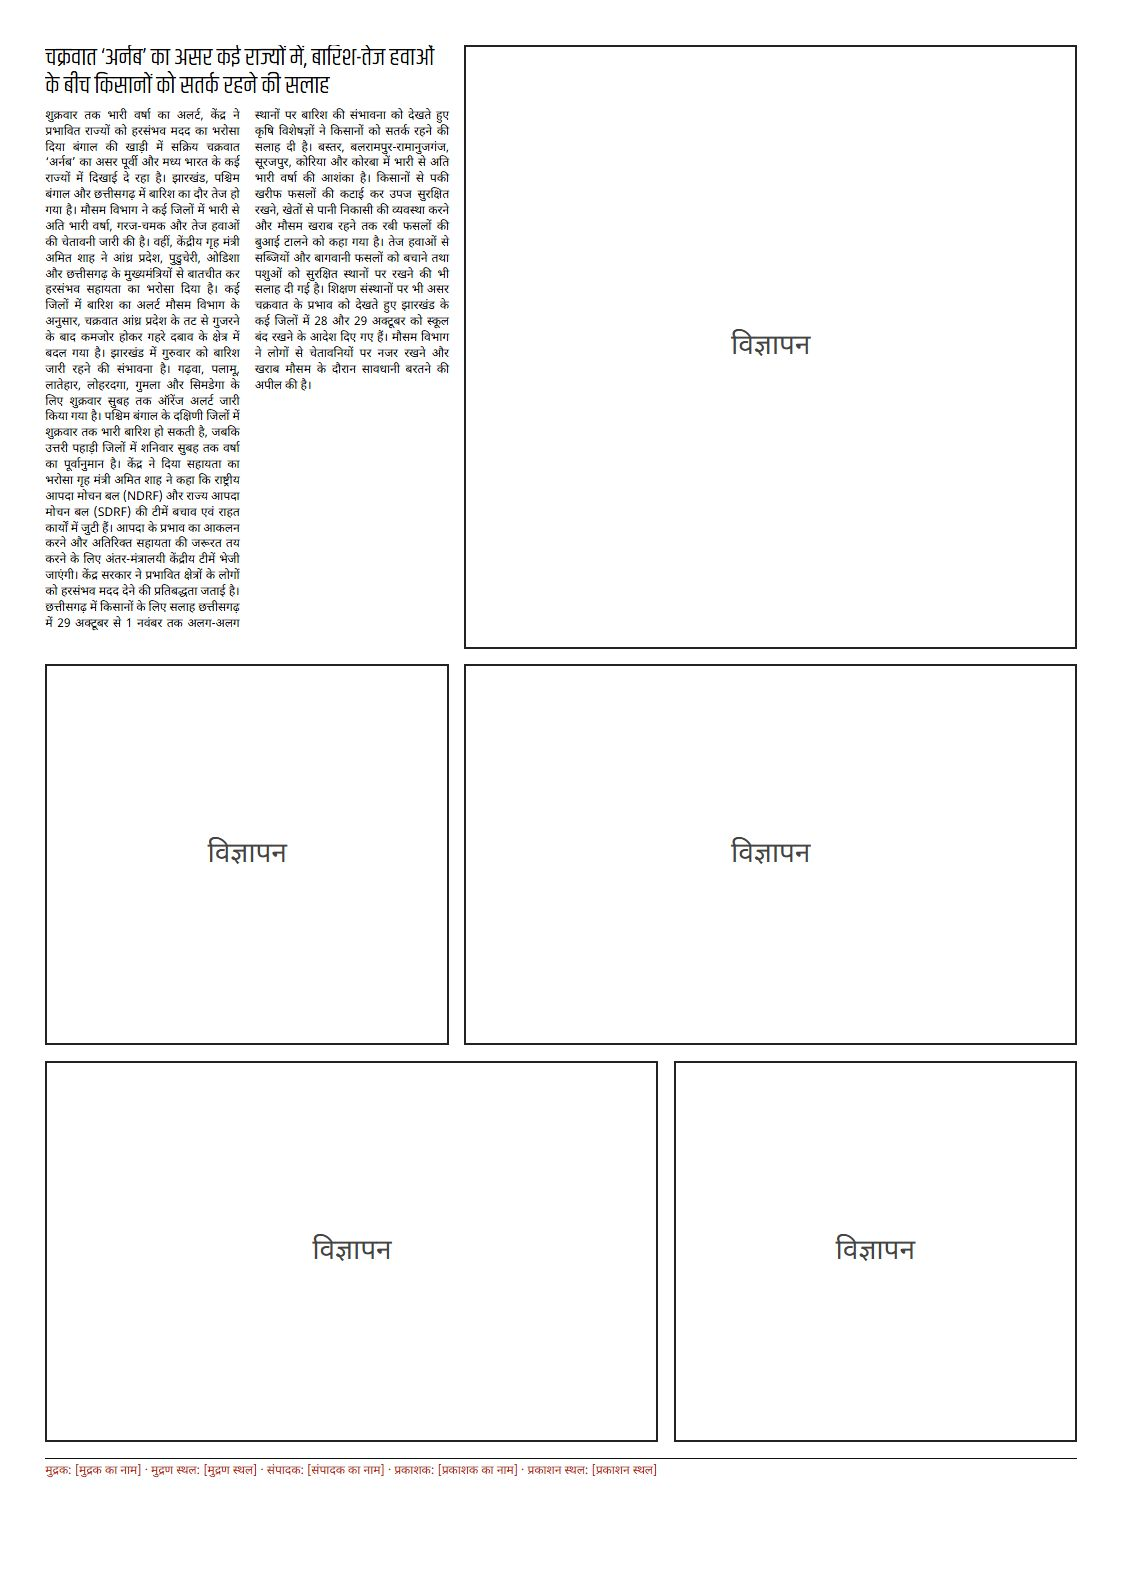
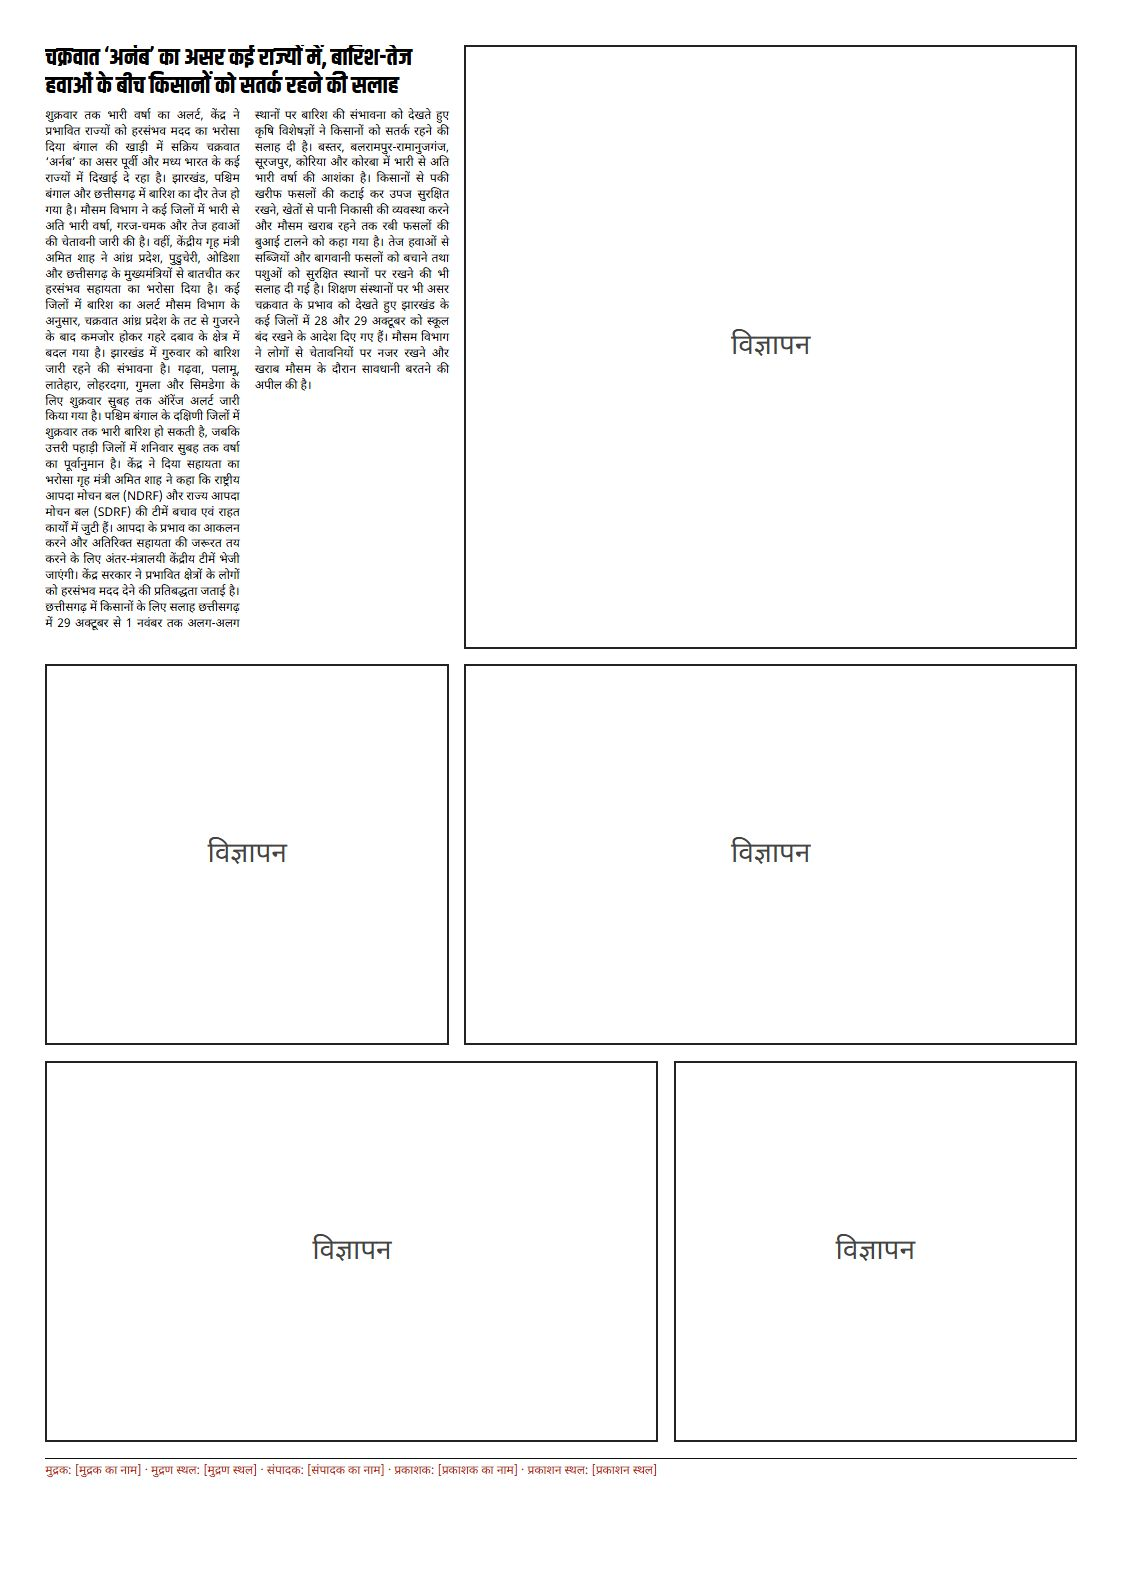
Templates demo: Khand 700 for masthead and headlines, approved by Amal (D-051)
Halant is not a launch font and is skipped. Body stays Noto Sans 400 and ad labels stay at 400.

Changed region(s): [[0.0312, 0.0309, 0.4052, 0.0617]]

diff --git a/demos/templates.html b/demos/templates.html
@@ -5,7 +5,7 @@
 figcaption{font-size:13px;color:#666}.w{background:#fff3cd;border-left:4px solid #e0b100;padding:8px 12px}table{border-collapse:collapse;background:#fff;width:100%;margin-bottom:24px}td,th{text-align:left;padding:4px 10px;border-bottom:1px solid #e3e3e3}</style></head>
 <body><p><a href="index.html">&larr; all demos</a></p>
 <h1>Weekly templates (D-049)</h1>
-<p class="w">The grid is assumed (A3, 5 columns, GG-007) and the imprint holds placeholders, shown in red. Body is Noto Sans 400 until Amal decides on Halant (D-048). Masthead and headlines are Khand 400: weight 700 is not approved (D-050). Each slot holds a different real story from Janshakti's site, uncut, in fetch order. No auto-pager exists yet, so nothing matches story length to slot. Paragraphs are joined, and headlines sit in a fixed band, because how a story maps to a frame is not settled.</p>
+<p class="w">The grid is assumed (A3, 5 columns, GG-007) and the imprint holds placeholders, shown in red. Body is Noto Sans 400. Masthead and headlines are Khand 700 (D-051). Each slot holds a different real story from Janshakti's site, uncut, in fetch order. No auto-pager exists yet, so nothing matches story length to slot. Paragraphs are joined, and headlines sit in a fixed band, because how a story maps to a frame is not settled.</p>
 <p><b>Over</b> counts lines of text that did not fit, at the frame's column width. <b>Under</b> counts empty line places left in the frame after the story ends. A short last line counts as used, so Under never counts part of a line, and it is 0 whenever anything is over. It counts body lines only: the headline band, photos and the space between slots are not in it.</p>
 <h2>Front page: lead and secondary</h2><div class="g"><figure><img src="templates/weekly-front-empty.jpg" alt="weekly-front empty"><figcaption>Empty slots</figcaption></figure><figure><img src="templates/weekly-front-filled.jpg" alt="weekly-front filled"><figcaption>Filled with real copy</figcaption></figure></div>
 <table><tr><th>Story slot</th><th>Story</th><th>Characters</th><th>Priority</th><th>Columns</th><th>Fill</th><th>Over</th><th>Under</th></tr><tr><td>lead</td><td lang="hi">s1: दीपावली से पहले इंदौर में खाद्य सुरक्षा की बड़ी कार्रवाई, 341 किलो सामग्री जब्त</td><td>2973</td><td>1</td><td>3</td><td>96%</td><td>0</td><td>3</td></tr><tr><td>secondary</td><td lang="hi">s2: 2030 तक पूर्वोत्तर में 8 लाख रोजगार का लक्ष्य, NCDC को मिला 25 साल का रोडमैप बनाने का निर्देश</td><td>2325</td><td>2</td><td>2</td><td>58.2%</td><td>0</td><td>41</td></tr><tr><td>third</td><td lang="hi">s3: वैश्विक अनिश्चितता के बीच भारत की आर्थिक रफ्तार मजबूत, 7.35% वृद्धि का अनुमान</td><td>2832</td><td>3</td><td>2</td><td>197.2%</td><td>35</td><td>0</td></tr><tr><td>fourth</td><td lang="hi">s4: नर्मदा परिक्रमा में बाधा बनी खड़की नदी, 10 युवाओं ने जनसहयोग से बनाया ड्रम पुल</td><td>1826</td><td>3</td><td>3</td><td>85.2%</td><td>0</td><td>8</td></tr></table>

diff --git a/demos/index.html b/demos/index.html
@@ -7,14 +7,14 @@ table{border-collapse:collapse;width:100%;background:#fff}td,th{text-align:left;
 .warn{background:#fff3cd;border:1px solid #e0b100;padding:8px 12px}</style></head>
 <body><h1>Studio demos</h1>
 <p class="warn">Gate numbers use an ASSUMED grid (A3, 12 mm margins, 5 columns, 4 mm gutter, 9 pt body) until the printer's spec sheet arrives (GG-007).</p>
-<p class="d">Gates from <code>node harness/run.mjs --fast</code>, 2026-10-31 12:03 UTC. Rebuild with <code>npm run demos</code> (add <code>-- --full</code> to run the slow parity gate).</p>
+<p class="d">Gates from <code>node harness/run.mjs --fast</code>, 2026-10-31 12:10 UTC. Rebuild with <code>npm run demos</code> (add <code>-- --full</code> to run the slow parity gate).</p>
 
 <h2>Gates</h2>
 <table><tr><th>Gate</th><th>Phase</th><th>Status</th><th>What it checks</th><th>Result</th></tr>
 <tr><td>G0.parity</td><td>0</td><td><span class="s SKIP">SKIP</span></td><td>Line-break parity vs real DOM on real Hindi copy, launch body fonts (fonts.json launch:true, role text/text-serif), percent</td><td class="d">slow gate skipped by --fast</td></tr>
 <tr><td>G0.guard</td><td>0</td><td><span class="s PASS">PASS</span></td><td>Repo guardrail tests failing (brand name, licences)</td><td class="d">0 (need &lt;= 0)</td></tr>
 <tr><td>G0.flow</td><td>0</td><td><span class="s PASS">PASS</span></td><td>flow() tests passing: the 12 contract tests in conservation.test.js plus at least 5 of your own in flow*.test.js, none skipped</td><td class="d">27 (need &gt;= 17)</td></tr>
-<tr><td>G0.speed</td><td>0</td><td><span class="s PASS">PASS</span></td><td>flow() on a full A3 page (5 columns, 2 photos, 416 lines of real copy), median ms over 20 runs after 5 warm-up, headless Chromium</td><td class="d">3.5 (need &lt;= 30)</td></tr>
+<tr><td>G0.speed</td><td>0</td><td><span class="s PASS">PASS</span></td><td>flow() on a full A3 page (5 columns, 2 photos, 416 lines of real copy), median ms over 20 runs after 5 warm-up, headless Chromium</td><td class="d">3.1 (need &lt;= 30)</td></tr>
 <tr><td>G0.pdfpos</td><td>0</td><td><span class="s PASS">PASS</span></td><td>Exported PDF matches flow(): max left-edge error in pt over every line, by raster (GG-042), plus baseline, justified right edge, font embedding and a mutation check</td><td class="d">0.009 (need &lt;= 0.1)</td></tr>
 <tr><td>G0.headline</td><td>0</td><td><span class="s SKIP">SKIP</span></td><td>Line-break parity on bold headline sizes (weight 700, 18/24/30/36 px, 1-4 columns of the assumed A3 grid), launch fonts with role headline, text or text-serif (fonts.json launch:true; body fonts set subheads and kickers), real Janshakti headlines, percent</td><td class="d">slow gate skipped by --fast</td></tr>
 <tr><td>G0.black</td><td>0</td><td><span class="s PASS">PASS</span></td><td>Experiment E2: text and rules land on the K plate only in the chosen export route (1 = yes, hand-recorded)</td><td class="d">1 (need &gt;= 1)</td></tr>

diff --git a/docs/DECISIONS.md b/docs/DECISIONS.md
@@ -53,6 +53,7 @@ Moved out of `CLAUDE.md` so that file stays short. Append only; never rewrite a 
 | D-048 | 2026-10-31 | Amal: Janshakti Ujala prints in Halant, so the Kruti Dev converter is not needed for it and moves behind templates. Screening run on real copy (`spike/run.mjs --fonts Halant`): regular at 12 and 14 px, 99.7%, 0 overflows, 6 early breaks, halant breaks 100%, widths 66/66, PASS. Bold at 18, 24, 30 and 36 px over 1-4 assumed columns, on body copy rather than the headline set, 99.9%, 0 overflows, 3 early breaks, halant breaks 98.8%, widths 66/66, CAVEAT. Halant stays a reserve font and Noto stays in templates until Amal decides; adding the launch flag changes a judge and sends Halant through G0.parity and G0.headline | The first customer's own font should not stay untested. docs/FONTS.md asks for clean halant checks, which bold does not fully meet |
 | D-049 | 2026-10-31 | Templates built. templates/*.json (weekly-front, weekly-inner, weekly-ads) hold slots in grid units on 5 columns and 60 rows, with no sizes. `buildPage` in packages/engine/src/templates.js makes frames and objects from the document's preset, snapped to the baseline, with one baseline of space under any slot that has a row below it. A template for another column count is refused, so the printer's real grid may need new templates. Op `applyTemplate` clears the page and records `templateId`; its inverse `restorePage` brings back what was there, including placed stories. papers/janshakti.json holds the imprint: Amal chose placeholders, all five listed as assumed. The imprint fields come from the phase plan's reading of the 2023 Act, s.3; no lawyer has read them. Not settled: how a story's headline, deck and body map onto a frame | Grid units keep every size in the preset (D-039). Marked placeholders cannot be mistaken for real details, if export refuses them (GG-056) |
 | D-050 | 2026-10-31 | Amal: bold 700 is not approved; use regular weight until he decides. The first template demo used Khand 700 for masthead and headlines and Noto Sans 700 for ad labels; all are now 400. G0.headline tests weight 700 only, so regular has no gate. Screening run on real copy at 18, 24, 30 and 36 px over 1-4 assumed columns: Khand 400 100%, 0 overflows, 1 early break; Eczar 400 99.9%, 0 overflows, 3 early breaks; both PASS. Amal's other instruction: print line fields come from publication settings, entered once (papers/janshakti.json holds them; GG-060). The demo fit now uses 11 different whole stories from spike/stories, uncut. Result on the assumed grid: lead 96%, secondary 58.2%, third 197.2%, fourth 85.2%, top 115.6%, top-left 123.1%, middle 79.4%, side 95.5%, bottom-a 175%, bottom-b 111.7%, ads-page story 77.3%. The first demo's near-full numbers came from one sample file cut to fit each slot, restarting on every page, so they did not show how real stories fit. Amal also shared three pages of the printed paper; they show a kicker, byline and caption per story, photos inset in the text, per-story column counts, a folio strip, and an ads page with many more, smaller ads than weekly-ads allows. No template work follows until he has seen this | Fixed slots with real story lengths land near full on only 2 of 11, which is the job auto-page has to do. The printed pages are the better spec for templates than what I built |
+| D-051 | 2026-10-31 | Amal: Khand 700 is approved for headlines, on G0.headline passing at 700 in the closing run; templates use weight 700 for the masthead and headlines. This replaces D-050's "bold 700 is not approved". Halant is not a launch font and is skipped, which closes the launch question in D-048; templates use Noto Sans 400 for body. G0.headline covers 18 to 36 px, so the demo's 86 px masthead is outside what it measured; the masthead is one fixed line, so no line break is at stake. Approval names Khand for masthead and headlines only, so ad labels stay at 400 | Amal's decision, with the gate result as evidence |
 
 ## Open questions
 - Agency quotes (PTI, UNI, IANS, Hindusthan Samachar) and one hour with an Indian media/IP lawyer before any content add-on ships.
